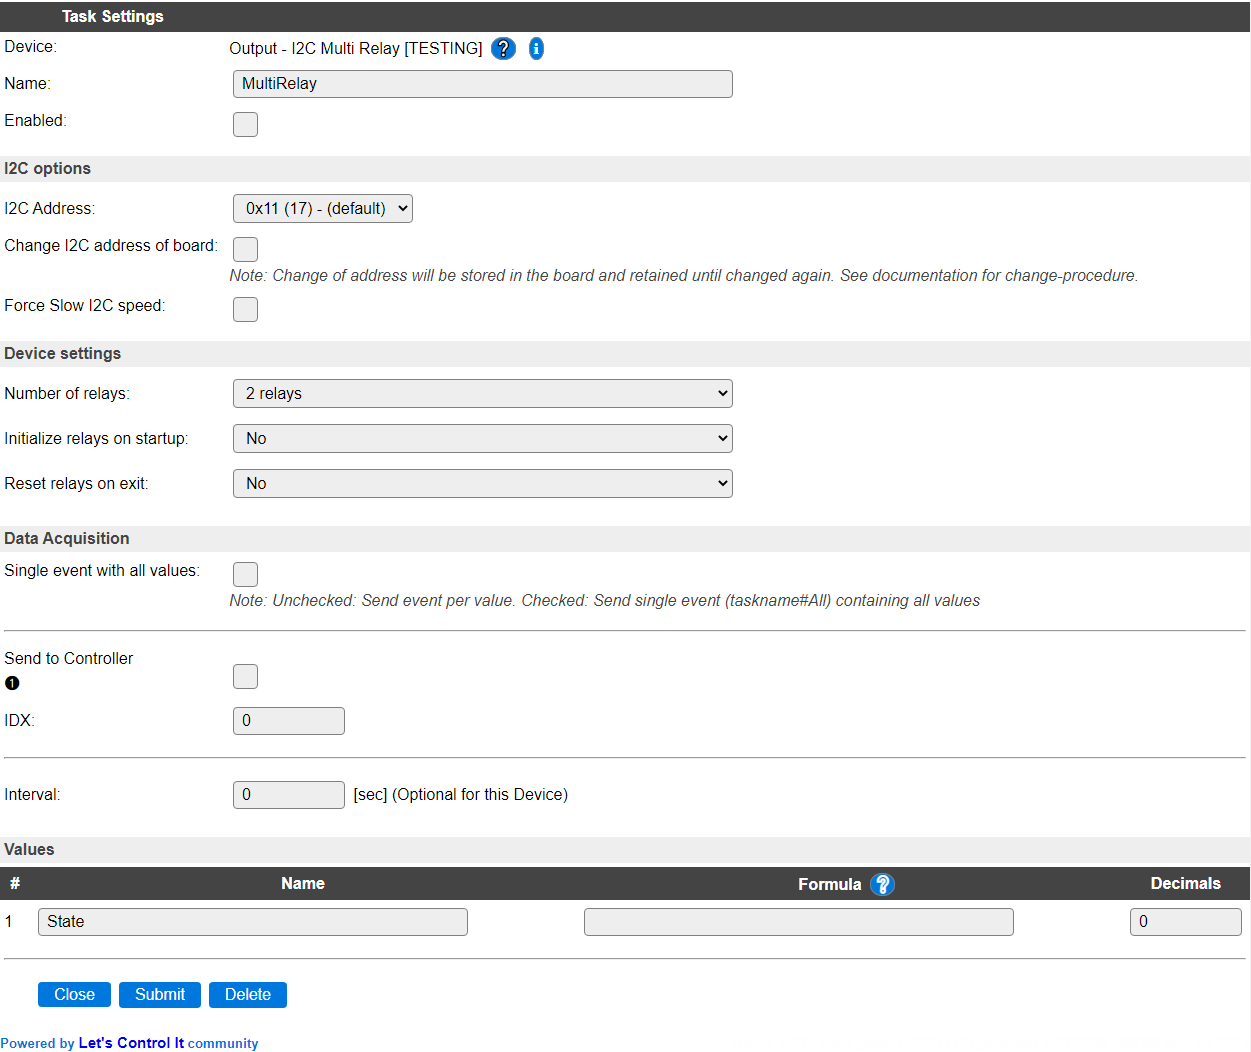
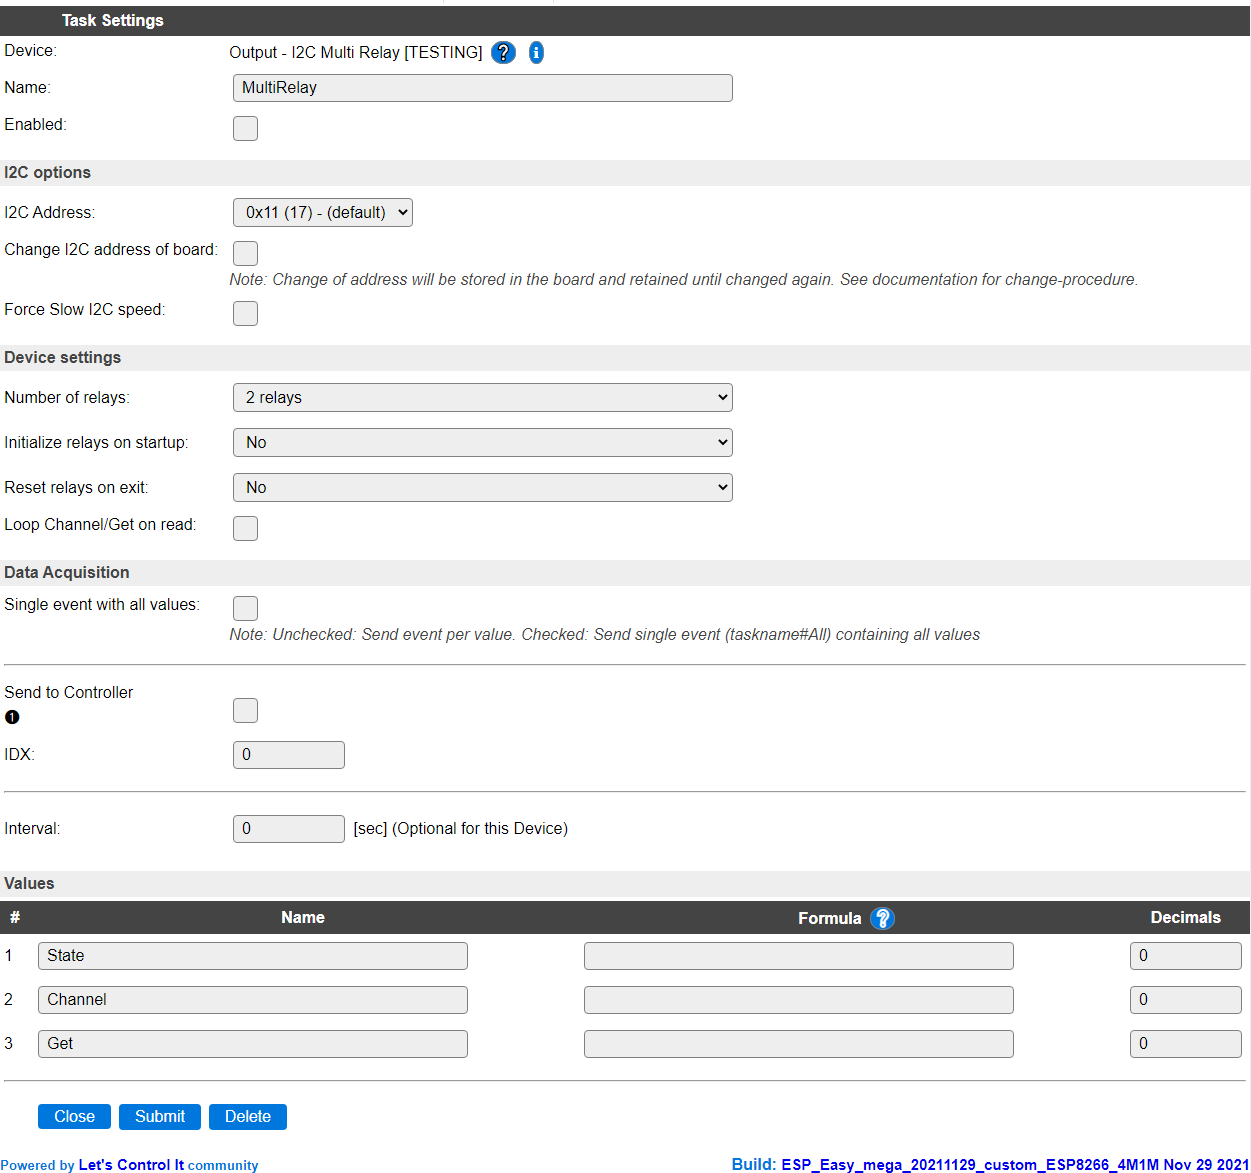
[P124] Add get command and looping that, fix a small settings bug

diff --git a/src/src/PluginStructs/P124_data_struct.h b/src/src/PluginStructs/P124_data_struct.h
@@ -16,6 +16,7 @@
 # define P124_FLAGS_INIT_RELAYS   8          // Initialize relays at startup
 # define P124_FLAGS_INIT_ALWAYS   9          // Apply relay initialization on every plugin restart
 # define P124_FLAGS_EXIT_RELAYS   10         // Initialize relays when the plugin is disabled
+# define P124_FLAGS_LOOP_GET      11         // Loop the state of the channels into Channel/Get values
 # define P124_FLAGS_EXIT_OFFSET   16         // 16..23 hold the on/off exit-state of each relay
 
 struct P124_data_struct : public PluginTaskData_base {
@@ -37,6 +38,14 @@ public:
   bool    channelCtrl(uint8_t state);
   bool    turn_on_channel(uint8_t channel);
   bool    turn_off_channel(uint8_t channel);
+  uint8_t getNextLoop();
+  bool    isLoopEnabled() {
+    return _loopEnabled;
+  }
+
+  void setLoopState(bool state) {
+    _loopEnabled = state;
+  }
 
 private:
 
@@ -48,6 +57,8 @@ private:
 
   int8_t  _i2c_address;
   uint8_t _relayCount;
+  uint8_t _getLoop     = 0;
+  bool    _loopEnabled = false;
 };
 #endif // ifdef USES_P124
 #endif // ifndef PLUGINSTRUCTS_P124_DATA_STRUCT_H

diff --git a/src/src/PluginStructs/P124_data_struct.cpp b/src/src/PluginStructs/P124_data_struct.cpp
@@ -77,4 +77,16 @@ bool P124_data_struct::turn_off_channel(uint8_t channel) {
   return false;
 }
 
+uint8_t P124_data_struct::getNextLoop() {
+  if (_loopEnabled) {
+    _getLoop++;
+
+    if (_getLoop > _relayCount) {
+      _getLoop = 1;
+    }
+    return _getLoop;
+  }
+  return 0;
+}
+
 #endif // ifdef USES_P124

diff --git a/docs/source/Plugin/P124.rst b/docs/source/Plugin/P124.rst
@@ -109,6 +109,9 @@ When changing the number of relays, the page will be submitted and the settings 
  
 .. note:: This will also be applied when Submitting the device settings page!
 
+* **Loop Channel/Get on read**: When enabled, will update the Channel and Get values with the selected channel and its current state (0=off, 1=on). The channel will be incremented each interval (read action).
+
+
 Data Acquisition
 ^^^^^^^^^^^^^^^^
 
@@ -117,7 +120,7 @@ The Data Acquisition, Send to Controller and Interval settings are standard avai
 Values
 ^^^^^^
 
-There is only 1 value available for this sensor, with the default name ``State``.
+The Values available for this sensor, are ``State``, holding the decimal value of the current channel_bitmap, ``Channel`` and ``Get``, showing the channel and its on/off state (1/0) of the last ``multirelay,get,<channel>`` command or when **Loop Channel/Get on read** is checked.
 
 Commands available
 ------------------
